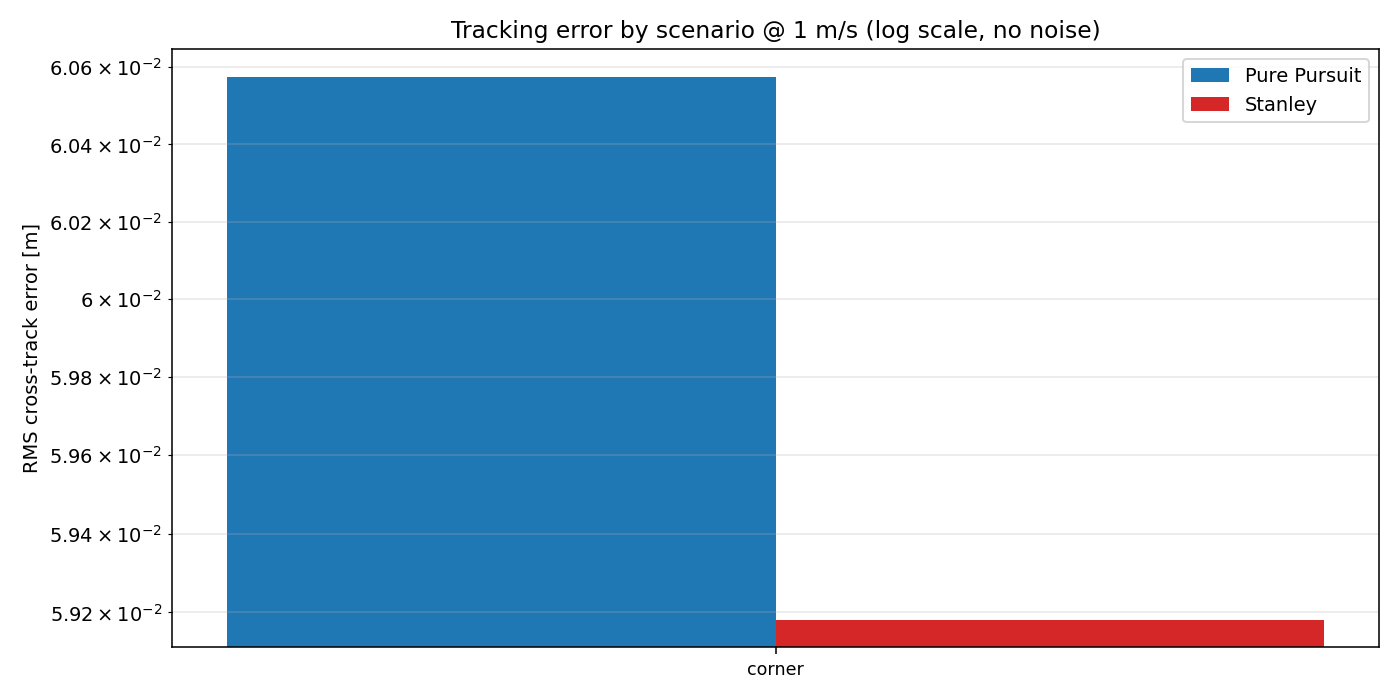
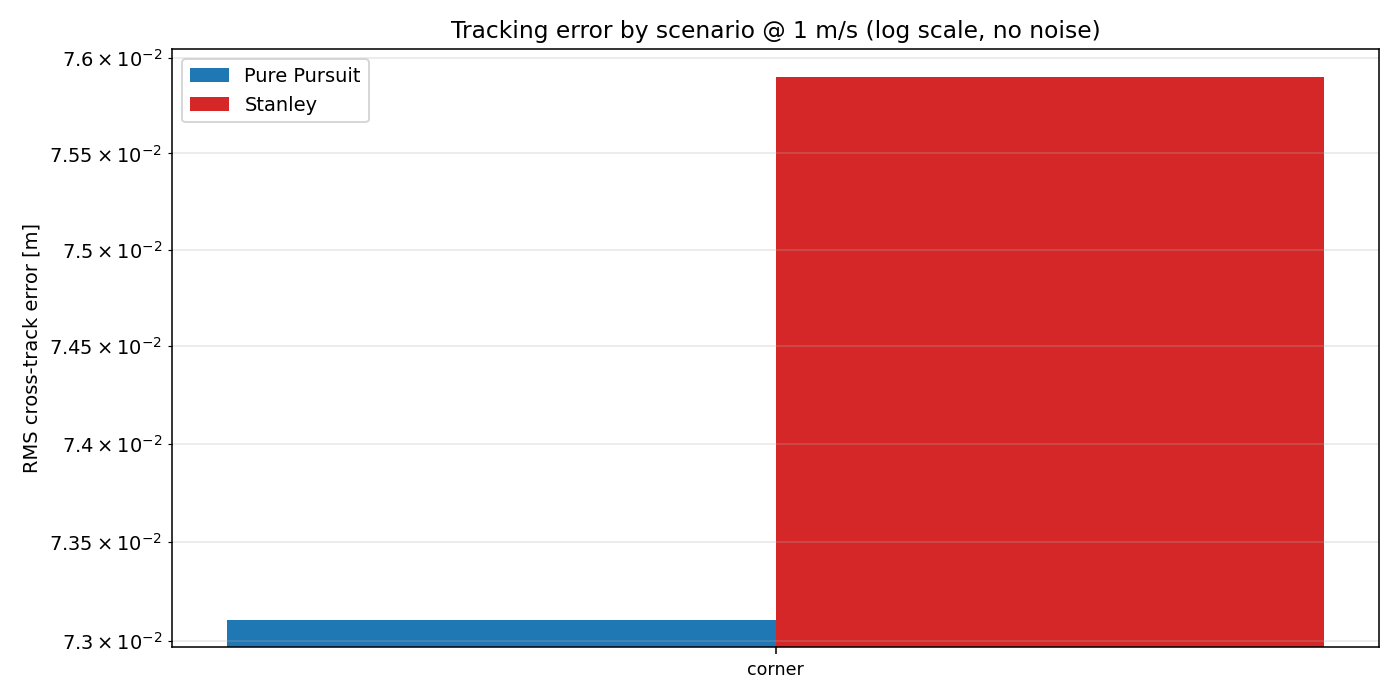
Re-measure the Gazebo runs with discovery confined to the container
The Gazebo repeats and the safety stop times in the previous commit were
measured while another ROS and Gazebo container ran on the same Docker
bridge. DDS and gz-transport discovery can cross between containers there,
so a stray /cmd_vel, /clock or /tf could have reached the measured runs.

All of it is re-run with no network at all (loopback only, its own ROS
domain and gz partition). The stop times hold: 0.26 s after an e-stop
and 0.77 s after the last command. The Gazebo repeats spread much more
than before: Stanley is closer in two repeats and Pure Pursuit in one,
each controller's error more than doubles between its best and worst
repeat. Each worst repeat is the one where the localisation drifted
most. The README now says that.

docker compose confines discovery to the container for the simulation
services, so a user's run cannot pick up another container's topics.

diff --git a/README.md b/README.md
@@ -226,18 +226,20 @@ Across 3 independent repeats (simulated, Gazebo Harmonic):
 
 | RMS cross-track | Pure Pursuit | Stanley |
 | --- | ---: | ---: |
-| repeat 1 | 0.0615 m | 0.0610 m |
-| repeat 2 | 0.0649 m | 0.0618 m |
-| repeat 3 | 0.0553 m | 0.0548 m |
+| repeat 1 | 0.0566 m | 0.0479 m |
+| repeat 2 | 0.0513 m | 0.1215 m |
+| repeat 3 | 0.1114 m | 0.0583 m |
 
-**Gazebo does not separate these two controllers on this route.** Stanley comes
-out lower in every repeat but by 0.5 to 3.1 mm, while each controller's own
-result moves by 7 to 10 mm from one repeat to the next. A gap smaller than
-the run-to-run spread is not a ranking. The spread also depends on the machine:
-on a busier CPU the dead-reckoning drift grows and so does the measured error,
-which is why the CI integration test bounds it only as a sanity limit. This is why the headline comparison is
-the deterministic benchmark, where the same inputs give bit-identical outputs
-and an 84-run matrix backs the conclusion.
+**Gazebo does not separate these two controllers on this route.** Stanley is
+closer in repeats 1 and 3 and Pure Pursuit in repeat 2. Each controller's own
+result more than doubles from its best repeat to its worst, which is more than
+any gap between them, so no ranking survives. Each controller's worst repeat is
+also the one where its localisation drifted most (below): the error follows the
+odometry, not the control law. The spread depends on the machine too. On a
+busier CPU the dead-reckoning drift grows and so does the measured error, which
+is why the CI integration test bounds it only as a sanity limit. This is why
+the headline comparison is the deterministic benchmark, where the same inputs
+give bit-identical outputs and an 84-run matrix backs the conclusion.
 
 Why the errors are an order of magnitude above the benchmark's: they are not
 measuring the same thing. The comparison runs use a static `map -> odom` (the
@@ -247,16 +249,16 @@ measures that drift directly over the same runs:
 
 | EKF against Gazebo ground truth | across all repeats and controllers |
 | --- | ---: |
-| Position error (RMS) | 0.159 to 0.275 m |
-| Position error (max) | 0.250 to 0.383 m |
-| Heading error (RMS) | 0.0115 to 0.0253 rad |
+| Position error (RMS) | 0.204 to 0.442 m |
+| Position error (max) | 0.263 to 0.625 m |
+| Heading error (RMS) | 0.0169 to 0.0415 rad |
 
 **The localisation drift is larger than the entire measured tracking error.**
-Split along and across the direction of travel, it is 0.15 to 0.27 m RMS along
-it and 0.054 to 0.068 m across it. The along-track part only moves the point
+Split along and across the direction of travel, it is 0.20 to 0.42 m RMS along
+it and 0.053 to 0.126 m across it. The along-track part only moves the point
 where the robot believes the route ends; the across-track part moves the robot
 off the line and on its own it is the size of the whole measured tracking
-error (0.055 to 0.065 m). So the Gazebo figures are dominated by odometry rather
+error (0.048 to 0.121 m) run by run. So the Gazebo figures are dominated by odometry rather
 than by the control law, which is the other reason they cannot rank the two
 controllers. Treat the bench numbers as the controller comparison and these as
 a system-level check: the stack drives the route, the localisation drifts about
@@ -307,7 +309,7 @@ speed under 0.05 m/s) within 0.5 s of the e-stop and within 1.0 s of the last
 command when commands stop. `src/shuttle_bringup/test/test_safety_sim.py`
 proves both in Gazebo on every CI run. Measured (simulated time): from 1.00 m/s
 to rest in 0.26 s after the e-stop, with full-speed commands still arriving;
-and at rest 0.76 s after the last command for the timeout. Details and what is
+and at rest 0.77 s after the last command for the timeout. Details and what is
 still not covered: **[docs/SAFETY.md](docs/SAFETY.md)**.
 
 ## Tests

diff --git a/docs/SAFETY.md b/docs/SAFETY.md
@@ -18,7 +18,7 @@ carrying no passengers, always within line of sight of a trained operator.
 | Collision with a pedestrian | Perception misses a low or thin obstacle; 2D LiDAR sees one horizontal slice only | Speed limited to 1.5 m/s; Nav2 inflation radius 0.65 m against a 0.55 m robot radius; operator supervision | 2D-only sensing is a real limitation, see below |
 | Collision with a static obstacle | Localisation drift; costmap not updated | Global costmap from a prior map plus live scan; local rolling costmap | Implemented in simulation |
 | Runaway on a control fault | Controller commands a velocity the operator cannot override | Software e-stop in the safety gate (latched, drops all commands); hardware emergency stop cutting motor power, independent of software | Software e-stop **implemented and tested in simulation**; hardware stop **not simulated** |
-| Loss of localisation | Scan matching fails in a feature-poor area | `ekf_evaluator` reports drift and NEES against ground truth | Measured in Gazebo: 0.159 to 0.275 m RMS drift over a 22.7 m dead-reckoned run. Covariance is unbounded in this configuration, so it cannot be used as a divergence trigger; the stop-on-divergence behaviour is **not** implemented |
+| Loss of localisation | Scan matching fails in a feature-poor area | `ekf_evaluator` reports drift and NEES against ground truth | Measured in Gazebo: 0.204 to 0.442 m RMS drift over a 22.7 m dead-reckoned run. Covariance is unbounded in this configuration, so it cannot be used as a divergence trigger; the stop-on-divergence behaviour is **not** implemented |
 | Stale command | A node dies while the last `cmd_vel` is still being executed | Command-timeout watchdog in the safety gate; a firmware timeout in the base | Watchdog **implemented and tested in simulation**. The simulated differential drive, like a motor controller without a firmware timeout, executes its last command for ever, so if the gate itself dies nothing stops it; the firmware timeout is **not simulated** |
 | Tracking failure on tight corners | Controller limit-cycles or cuts a corner | Benchmarked over seven scenarios including corners tighter than the tuning set; stalls and divergence are recorded as explicit outcomes | Implemented and tested |
 
@@ -61,7 +61,7 @@ of the e-stop and within 1.0 s of the last command when commands stop.
 headless with the gate in front of the base, drives at 1.0 m/s and checks both
 on every CI run. Measured (simulated time, Gazebo Harmonic): from 1.00 m/s to
 rest in 0.26 s after the e-stop, with full-speed commands still arriving at
-20 Hz; and at rest 0.76 s after the last command for the timeout, of which 0.5 s
+20 Hz; and at rest 0.77 s after the last command for the timeout, of which 0.5 s
 is the timeout itself. The test also checks the base was still moving partway
 into the timeout window, so it is the watchdog that stopped it and that it
 stays stopped after the e-stop is released.

diff --git a/docs/RESULTS_GAZEBO.md b/docs/RESULTS_GAZEBO.md
@@ -6,7 +6,7 @@ Generated by `analysis/compare_controllers.py` from `results/gazebo/metrics.csv`
 
 ## Conclusion
 
-Too few scenarios here to draw a conclusion: on `corner` Stanley was closer (0.0592 m against 0.0606 m RMS). This is a single-route check, not the controller comparison; see docs/RESULTS.md for that, which covers seven scenarios at three speeds with and without odometry noise.
+Too few scenarios here to draw a conclusion: on `corner` Pure Pursuit was closer (0.0731 m against 0.0759 m RMS). This is a single-route check, not the controller comparison; see docs/RESULTS.md for that, which covers seven scenarios at three speeds with and without odometry noise.
 
 ## How the comparison is kept fair
 
@@ -21,20 +21,20 @@ Too few scenarios here to draw a conclusion: on `corner` Stanley was closer (0.0
 
 | Scenario | Tuned on | PP RMS (m) | Stanley RMS (m) | PP max (m) | Stanley max (m) | Closer |
 | --- | --- | ---: | ---: | ---: | ---: | :---: |
-| `corner` | yes | 0.0606 | 0.0592 | 0.1805 | 0.1485 | Stanley |
+| `corner` | yes | 0.0731 | 0.0759 | 0.3232 | 0.3519 | PP |
 
 ## Across speed and noise (averaged over all scenarios)
 
 | Speed (m/s) | Noise | PP RMS (m) | Stanley RMS (m) | PP effort | Stanley effort |
 | ---: | :---: | ---: | ---: | ---: | ---: |
-| 1 | yes | 0.0606 | 0.0592 | 0.27 | 0.45 |
+| 1 | yes | 0.0731 | 0.0759 | 0.31 | 0.41 |
 
 ## Robustness
 
 | Controller | Clean RMS (m) | Noisy RMS (m) | Noise penalty | Mean effort (rad/s²) | Failed runs |
 | --- | ---: | ---: | ---: | ---: | ---: |
-| Pure Pursuit | n/a | 0.0606 | n/a | 0.27 | 0 |
-| Stanley | n/a | 0.0592 | n/a | 0.45 | 0 |
+| Pure Pursuit | n/a | 0.0731 | n/a | 0.31 | 0 |
+| Stanley | n/a | 0.0759 | n/a | 0.41 | 0 |
 
 6 runs total, 0 of which failed to finish.
 

diff --git a/STATUS.md b/STATUS.md
@@ -26,7 +26,7 @@ run on hardware.
   latched e-stop (topic and service) in front of the base, logic unit tested in
   the core and `test_safety_sim.py` proving in Gazebo that the base is at rest
   within 0.5 s of an e-stop and within 1.0 s of the last command (simulated:
-  0.26 s and 0.76 s measured).
+  0.26 s and 0.77 s measured).
 - **Headless integration test in CI.** `test_comparison_sim.py` starts Gazebo,
   the bridge, the gate, the EKF, the path publisher, the tracker and the
   metrics recorder, runs `corner` at 1.0 m/s with each controller and asserts
